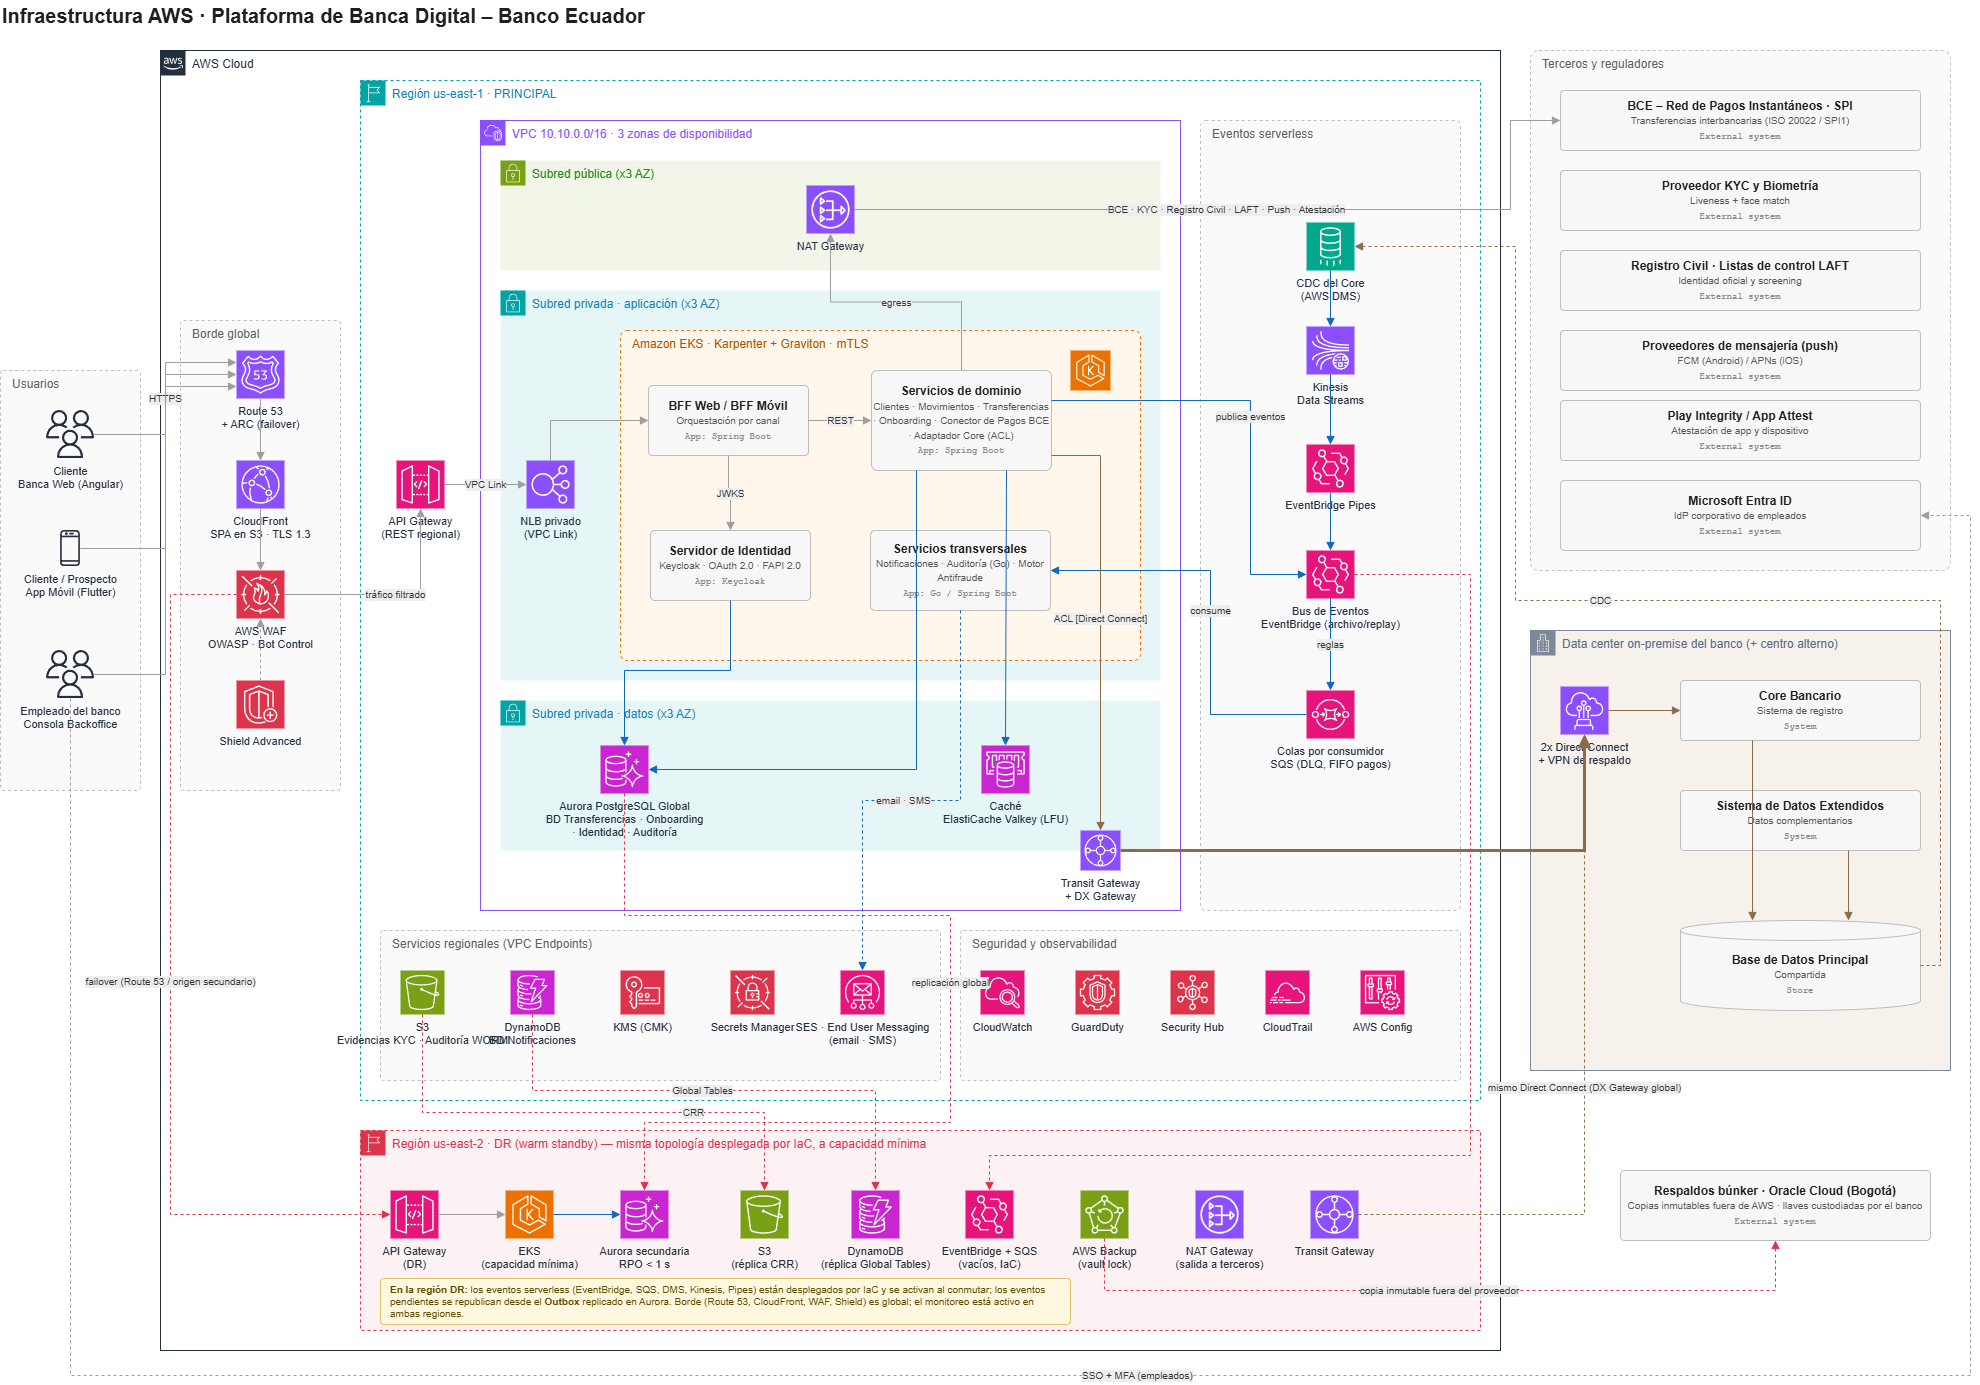
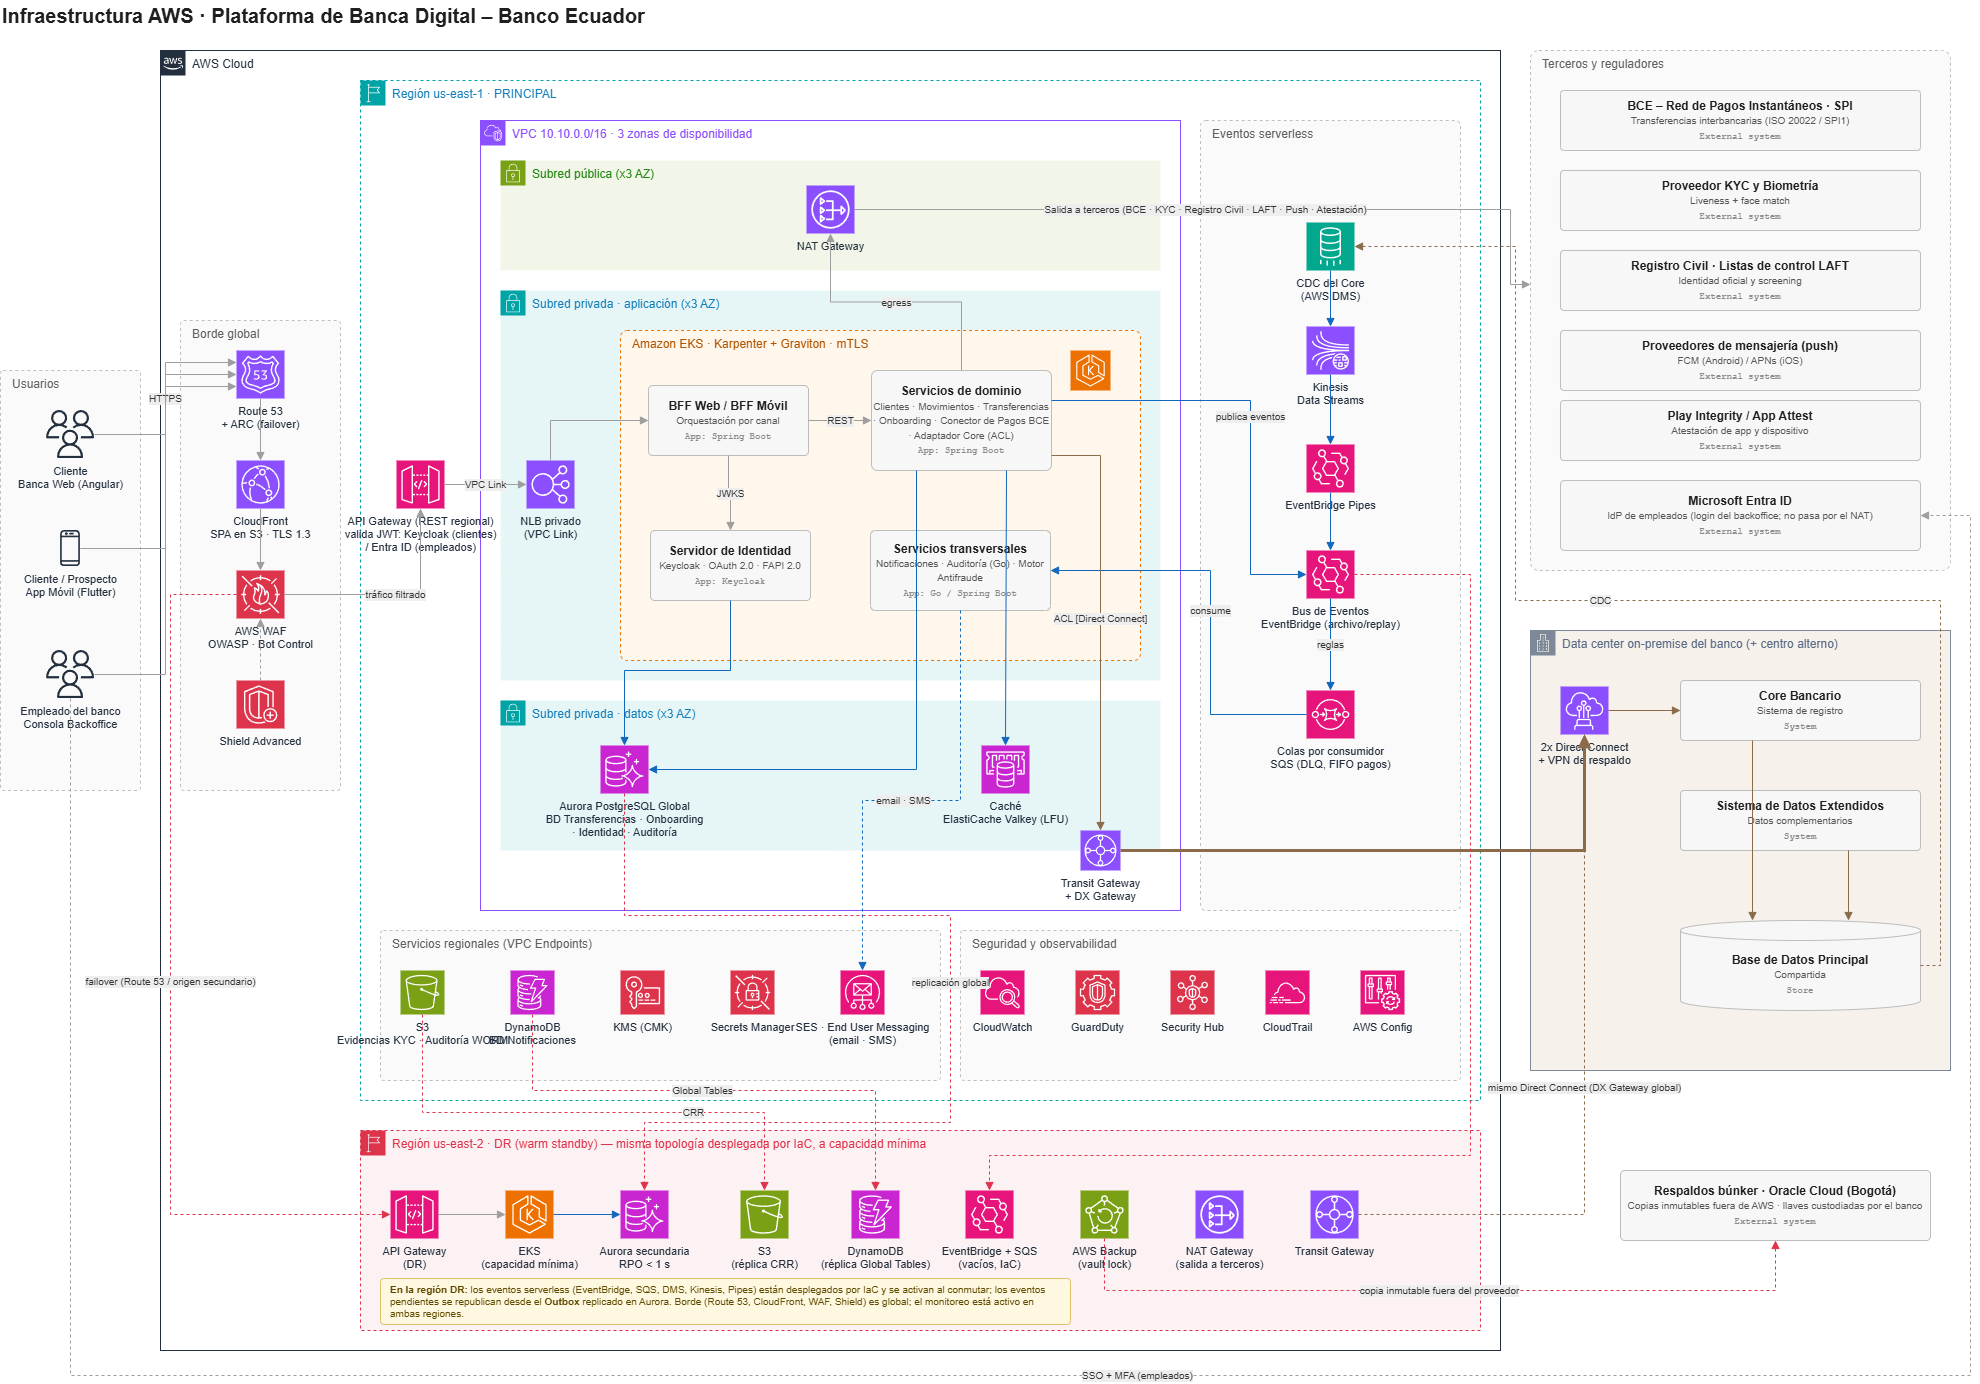
Infra: camino de login, API Gateway privado para backoffice y namespaces en EKS
Claude-Session: https://claude.ai/code/session_012XfV8xRKX4eGmGCa41hgAG

diff --git a/docs/01-justificaciones.md b/docs/01-justificaciones.md
@@ -21,6 +21,8 @@
   - **Conector de Pagos BCE**, que aísla la mensajería del Banco Central.
   - **Adaptador del Core (ACL)**, una capa anticorrupción que protege al resto del sistema del modelo del legado.
   - **Notificaciones** y **Auditoría**, que exige el reto.
+- **Dos gateways:** uno **público** para clientes (web y móvil) y uno **privado** para el backoffice, accesible solo desde la red del banco o VPN. Así las APIs administrativas no quedan expuestas a internet.
+- **Login:** no pasa por el API Gateway. CloudFront + WAF envían el flujo OAuth a un balanceador público dedicado que solo expone **Keycloak**.
 - Todos los servicios siguen **arquitectura hexagonal**: cambiar el core o un proveedor solo cambia un adaptador.
 
 ![Componentes BFF Móvil](../c4/diagramas/03-componentes-bff-movil.png)
